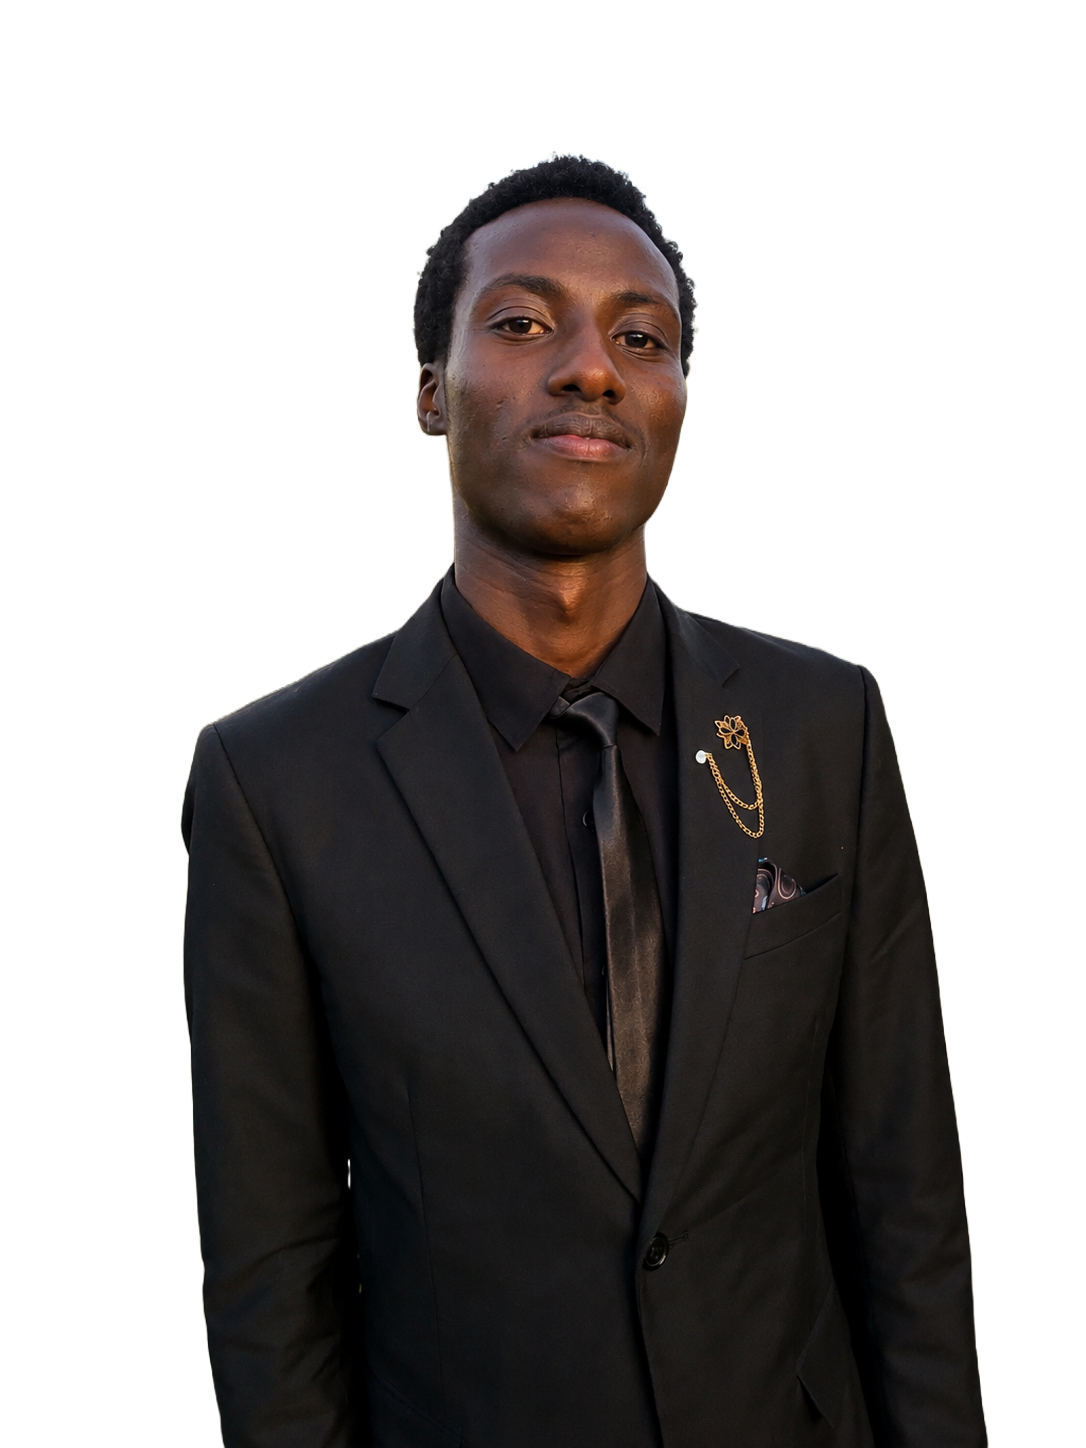
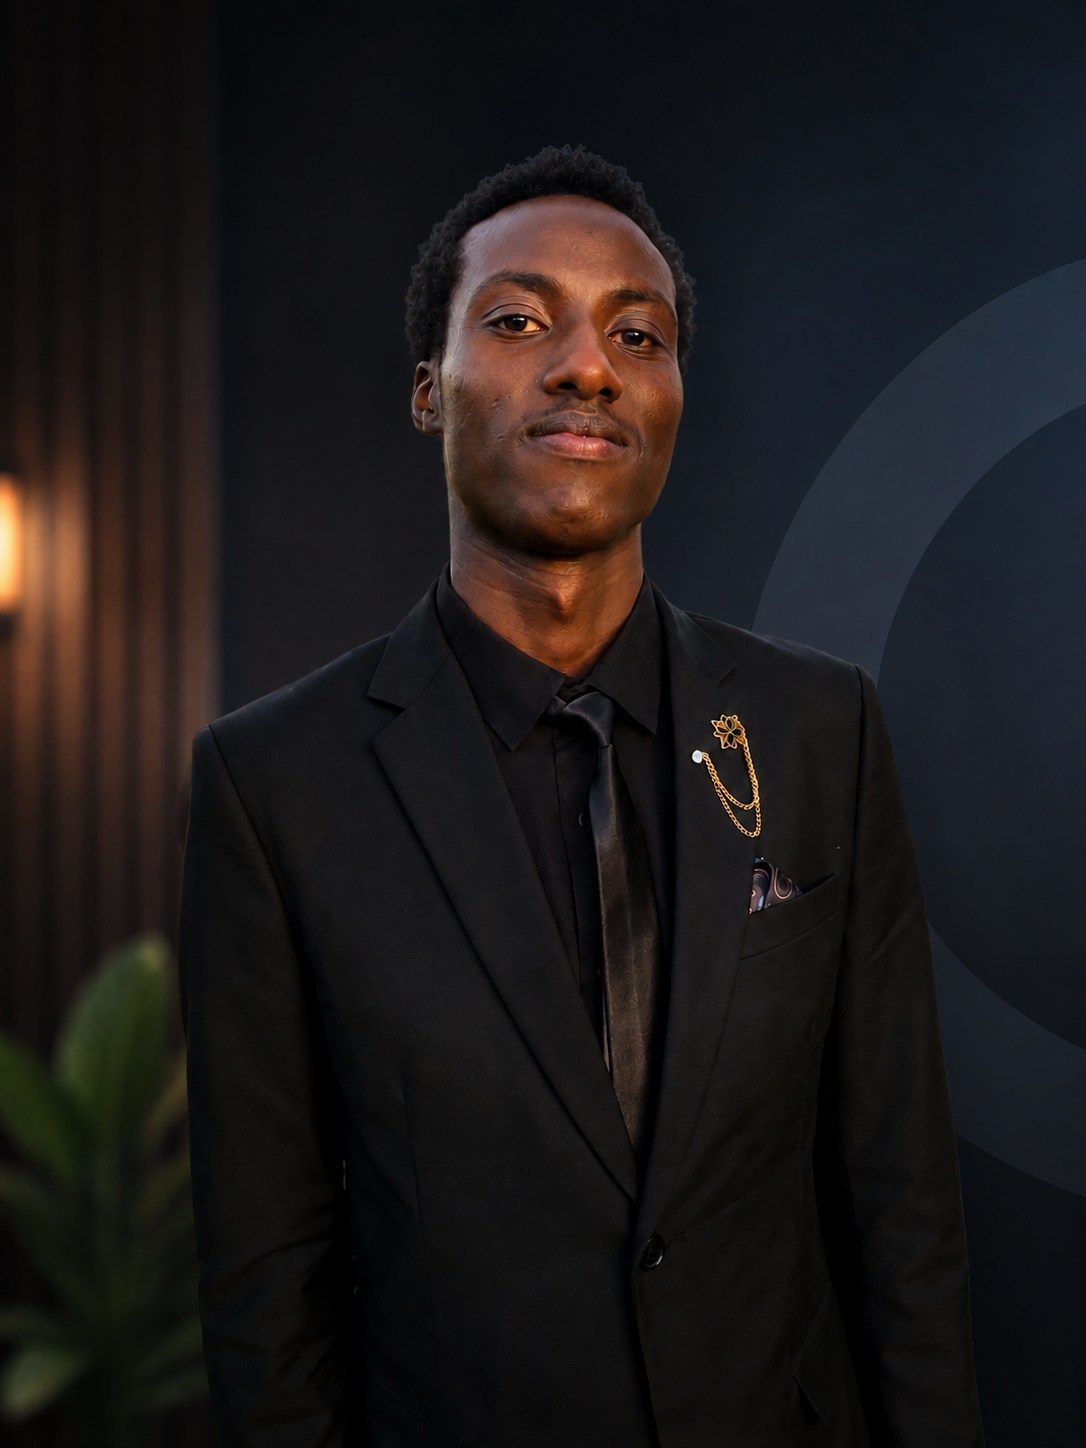
feat: refresh SHED preview, add Full Stack Developer branding, add Facebook Ads results

diff --git a/app/components/Portfolio.tsx b/app/components/Portfolio.tsx
@@ -14,6 +14,26 @@ const SITE_SHOTS: Record<string, string> = {
 
 type GraphicItem = { title: string; src: string; span: string };
 
+const ADS_ITEMS: { title: string; src: string }[] = [
+  { title: "28-day insights — 101.7K views", src: "/portfolio/ads-01.jpg" },
+  { title: "Views up 1,034% in 28 days", src: "/portfolio/ads-02.jpg" },
+  { title: "Top content by interactions", src: "/portfolio/ads-03.jpg" },
+  { title: "Audience follows +270%", src: "/portfolio/ads-04.jpg" },
+  { title: "Audience demographics", src: "/portfolio/ads-05.jpg" },
+  { title: "Top cities — Eldoret & Nairobi", src: "/portfolio/ads-06.jpg" },
+  { title: "Top content by views", src: "/portfolio/ads-07.jpg" },
+  { title: "28-day insights detail", src: "/portfolio/ads-08.jpg" },
+  { title: "Post insights — 47K views", src: "/portfolio/ads-09.jpg" },
+  { title: "Ad results — 39.8K views", src: "/portfolio/ads-10.jpg" },
+];
+
+const ADS_STATS: { value: string; label: string }[] = [
+  { value: "101.7K", label: "Views in 28 days" },
+  { value: "+1,034%", label: "View growth" },
+  { value: "863", label: "Content interactions" },
+  { value: "122", label: "New follows" },
+];
+
 const GRAPHIC_ITEMS: GraphicItem[] = [
   { title: "Feature Poster", src: "/portfolio/graphic-01.jpg", span: "col-span-1 row-span-2" },
   { title: "Social Ad", src: "/portfolio/graphic-02.jpg", span: "col-span-1 row-span-2" },
@@ -194,9 +214,54 @@ export default function Portfolio() {
               Ad <span className="text-gradient">Campaigns</span>
             </h2>
             <p className="mt-2 text-base font-medium text-ink-soft">
-              Strategic ad creatives for Meta platforms.
+              Real Facebook Ads results for Edward Limo Educational Centre —
+              2027 admissions campaign. Click any screenshot to view it full
+              size.
             </p>
           </Reveal>
+
+          <div className="mt-8 grid grid-cols-2 gap-4 sm:grid-cols-4">
+            {ADS_STATS.map((s, i) => (
+              <Reveal key={s.label} delay={i * 0.05}>
+                <div className="rounded-2xl border-2 border-ink bg-white p-5 text-center shadow-[3px_3px_0_0_rgba(17,17,17,1)]">
+                  <div className="text-2xl font-bold tracking-tight text-ink sm:text-3xl">
+                    {s.value}
+                  </div>
+                  <div className="mt-1 text-xs font-bold uppercase tracking-wider text-muted-foreground">
+                    {s.label}
+                  </div>
+                </div>
+              </Reveal>
+            ))}
+          </div>
+
+          <div className="mt-8 grid grid-cols-2 gap-4 sm:grid-cols-3 lg:grid-cols-5">
+            {ADS_ITEMS.map((item, i) => (
+              <Reveal key={item.src} delay={i * 0.04}>
+                <button
+                  onClick={() => setLightbox({ src: item.src, title: item.title })}
+                  className="group relative block h-72 w-full cursor-zoom-in overflow-hidden rounded-2xl border-2 border-ink bg-warm-100 text-left shadow-[3px_3px_0_0_rgba(17,17,17,1)] transition-all duration-300 hover:-translate-y-1 hover:shadow-[5px_5px_0_0_rgba(17,17,17,1)]"
+                >
+                  {/* eslint-disable-next-line @next/next/no-img-element */}
+                  <img
+                    src={item.src}
+                    alt={item.title}
+                    loading="lazy"
+                    className="absolute inset-0 h-full w-full object-cover object-top transition-all duration-500 group-hover:scale-105"
+                  />
+                  <span className="absolute right-3 top-3 grid h-9 w-9 translate-x-1 -translate-y-1 place-items-center rounded-full border-2 border-ink bg-warm shadow-[2px_2px_0px_0px_rgba(17,17,17,1)] text-sm font-black text-ink opacity-100 transition-all duration-300 group-hover:translate-x-0 group-hover:translate-y-0 group-hover:bg-orange-burst group-hover:text-white">
+                    ⤢
+                  </span>
+                  <div className="absolute inset-x-0 bottom-0 translate-y-full bg-ink/85 p-3 backdrop-blur-sm transition-transform duration-300 group-hover:translate-y-0">
+                    <span className="flex items-center gap-2 text-[11px] font-bold uppercase tracking-widest text-white">
+                      <span className="h-2 w-2 shrink-0 rounded-full bg-orange-burst" />
+                      {item.title}
+                    </span>
+                  </div>
+                </button>
+              </Reveal>
+            ))}
+          </div>
 
           <Reveal delay={0.05}>
             <div className="mt-8 flex flex-col items-start justify-between gap-4 rounded-2xl border-2 border-ink bg-white p-7 shadow-[4px_4px_0_0_rgba(17,17,17,1)] sm:flex-row sm:items-center">
@@ -206,7 +271,7 @@ export default function Portfolio() {
                 </span>
                 <div>
                   <p className="text-base font-bold">
-                    Campaign case studies are coming soon.
+                    Want results like this for your school or business?
                   </p>
                   <p className="mt-1 text-sm font-medium text-ink-soft">
                     Reach out to discuss measurable results from your Meta ads.

diff --git a/app/layout.tsx b/app/layout.tsx
@@ -11,10 +11,13 @@ const spaceGrotesk = Space_Grotesk({
 
 export const metadata: Metadata = {
   title:
-    "Kibe-Digital | Websites & Graphics That Grow Your Business",
+    "Benny Kibet | Full Stack Developer — Kibe-Digital | Websites & Graphics That Grow Your Business",
   description:
-    "Kibe-Digital (Eldoret, Kenya) delivers modern websites, standout visual designs, and strategic ads built to convert visitors into loyal customers.",
+    "Benny Kibet, Full Stack Developer and founder of Kibe-Digital (Eldoret, Kenya). Modern websites, full-stack web apps, standout visual designs, and strategic ads built to convert visitors into loyal customers.",
   keywords: [
+    "full stack developer kenya",
+    "full stack developer eldoret",
+    "benny kibet",
     "web design kenya",
     "graphic design",
     "ads management",
@@ -23,9 +26,9 @@ export const metadata: Metadata = {
     "kibe digital",
   ],
   openGraph: {
-    title: "Kibe-Digital",
+    title: "Benny Kibet | Full Stack Developer — Kibe-Digital",
     description:
-      "Websites & graphics that grow your business — built in Eldoret, Kenya.",
+      "Full-stack websites & apps, graphics that grow your business — built in Eldoret, Kenya.",
     type: "website",
   },
 };

diff --git a/app/components/Hero.tsx b/app/components/Hero.tsx
@@ -30,7 +30,7 @@ export default function Hero() {
           >
             <span className="inline-flex items-center gap-2 rounded-full border-2 border-ink bg-white px-4 py-2 text-sm font-bold shadow-[2px_2px_0px_0px_rgba(17,17,17,1)]">
               <span className="h-2.5 w-2.5 rounded-full bg-sage" />
-              Eldoret, Kenya · Available for projects
+              Full Stack Developer · Eldoret, Kenya · Available for projects
             </span>
 
             <h1 className="mt-7 text-[clamp(2.5rem,6vw,5rem)] font-bold leading-[0.98] tracking-tight">

diff --git a/app/components/About.tsx b/app/components/About.tsx
@@ -22,6 +22,9 @@ export default function About() {
               <SectionTitle className="mt-5">
                 Hi, I&rsquo;m <span className="text-gradient">Benny Kibet</span>
               </SectionTitle>
+              <span className="mt-4 inline-flex items-center gap-2 rounded-full border-2 border-ink bg-ink px-4 py-1.5 text-xs font-bold uppercase tracking-widest text-white shadow-[2px_2px_0px_0px_rgba(17,17,17,1)]">
+                Full Stack Developer
+              </span>
             </div>
           </div>
 

diff --git a/scripts/capture-screenshots.js b/scripts/capture-screenshots.js
@@ -6,6 +6,7 @@ const outDir = path.join(__dirname, '..', 'public', 'portfolio');
 fs.mkdirSync(outDir, { recursive: true });
 
 const sites = [
+  { name: 'shed-foundation', url: 'https://shedfoundation.info' },
   { name: 'edward-limo', url: 'https://www.edwardlimoeducentre.com' },
   { name: 'tindinyo-falls', url: 'https://www.tindinyofalls.com' },
   { name: 'elite-media', url: 'https://www.elitemediacreations.co.ke' },

diff --git a/app/lib/site.ts b/app/lib/site.ts
@@ -149,7 +149,7 @@ export const LIVE_SITES = [
 ];
 
 export const SKILLS = [
-  { name: "Web Development", years: 2 },
+  { name: "Full Stack Development", years: 2 },
   { name: "Graphic Design", years: 6 },
   { name: "Ads & Marketing", years: 2 },
 ];
